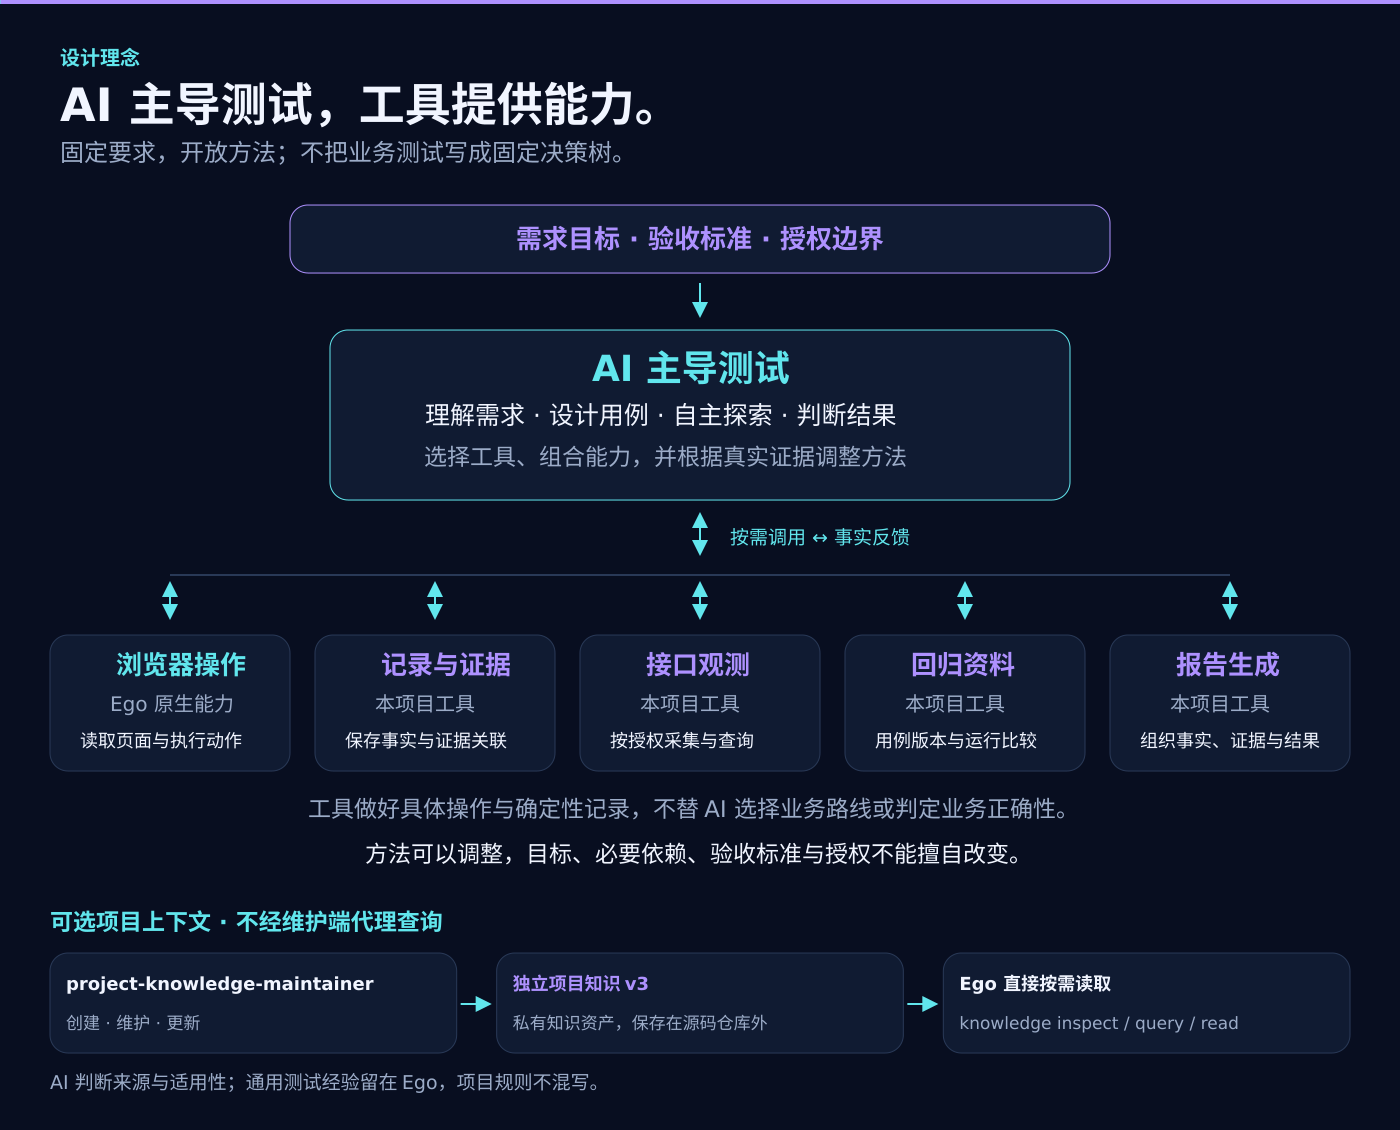
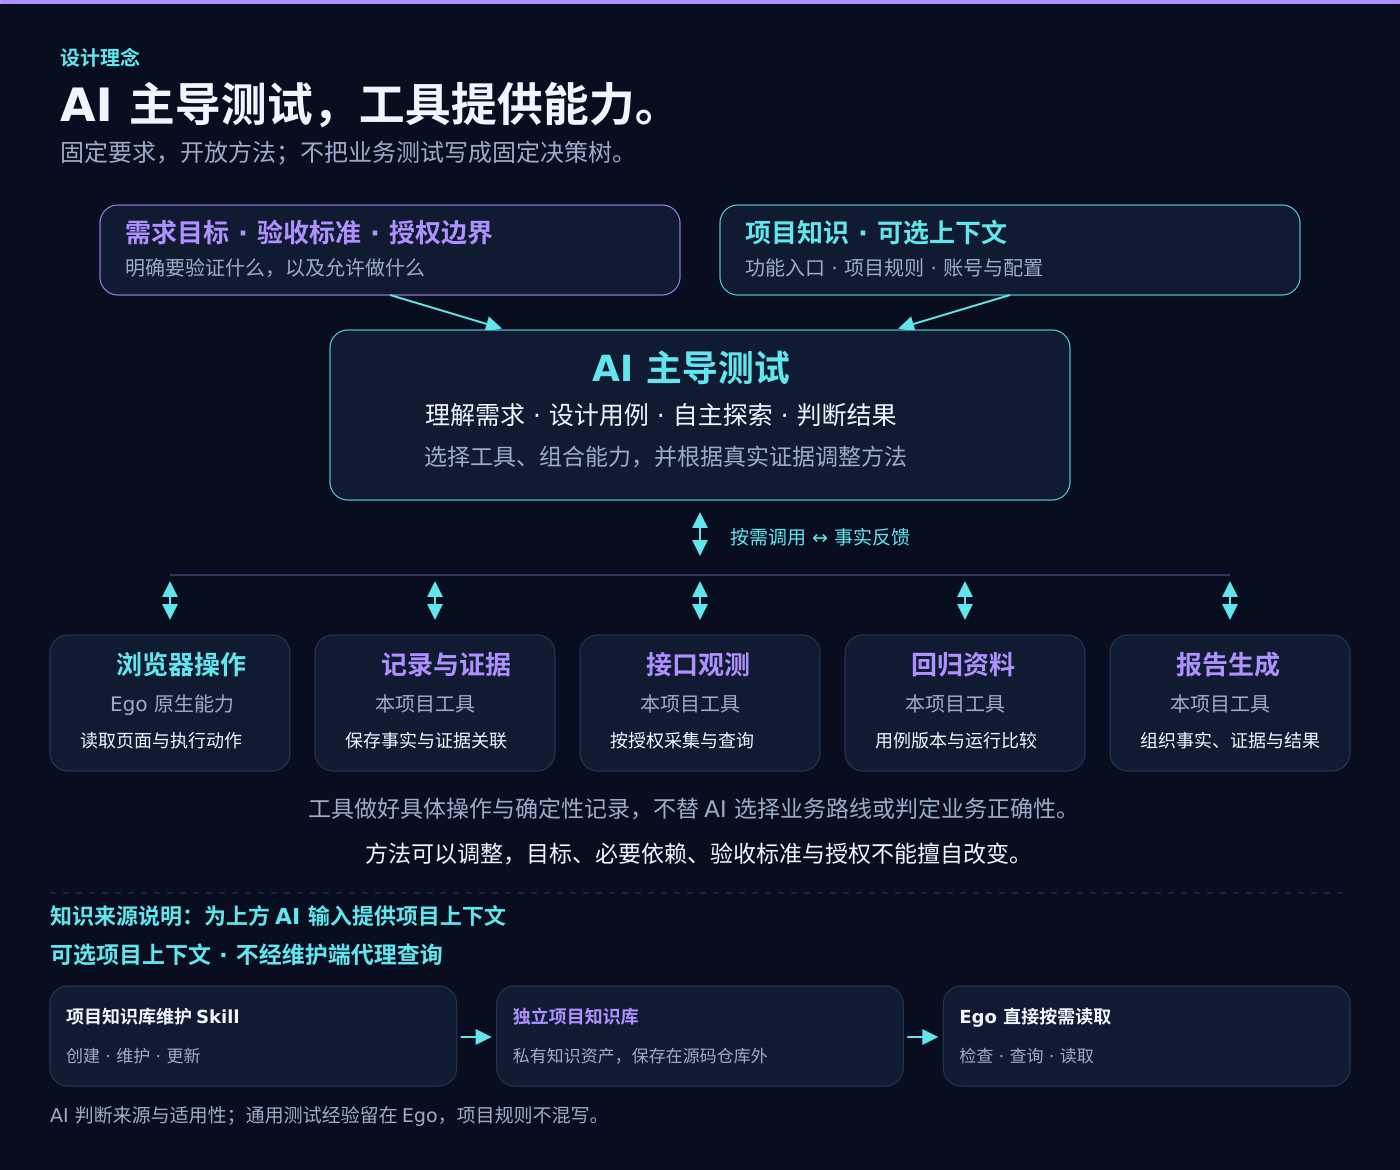
docs: refine knowledge context diagrams after review

diff --git a/README.en.md b/README.en.md
@@ -6,6 +6,14 @@
 
 **An AI-led Web testing Skill built on Ego Lite.** For first launches, new features and regression, using existing cases or cases generated from requirements.
 
+## Companion tool: project knowledge maintenance
+
+[project-knowledge-maintainer](https://github.com/99Like-wjj/project-knowledge-maintainer) creates and updates project knowledge. Ego reads, queries and uses that independent asset during testing through shared **knowledge format v3**; the maintenance Skill is not a runtime query proxy. The maintenance repository is currently private and requires existing access. An inaccessible link does not disable other Ego testing capabilities.
+
+First, use the maintenance Skill with authorized materials and keep its output in a private directory outside source repositories. Then give Ego that directory and an independently confirmed project identity, using `knowledge inspect/query/read` on demand. Read again after updates; frozen cases and historical results are not rewritten. Maintenance is not required on every test run, and tasks can continue from existing sources without a knowledge base.
+
+Generic testing experience stays in Ego’s separate design/execution guides. Project maps, common rules and user-declared configuration/account notes stay in the knowledge base. Configuration uses lightweight records, not a mandatory permission matrix; feature-specific details remain in source requirements. Real knowledge, business materials and credentials are never shipped with either Skill. See the [knowledge usage guide (Chinese)](skills/ai-autonomous-testing-ego-lite/references/project-knowledge.md).
+
 ## Design philosophy: AI leads, tools provide capabilities
 
 AI leads the testing: understanding requirements, designing cases, exploring pages, choosing actions and verification methods, and judging results from actual evidence. We provide composable capabilities, testing guidance and experience references to support this work, rather than a fixed process that decides every step for the AI.
@@ -16,15 +24,7 @@ AI leads the testing: understanding requirements, designing cases, exploring pag
 
 As models improve, we aim to let AI use these capabilities more effectively. Actual testing quality must still be verified; a model upgrade does not guarantee improvement.
 
-![AI at the center selects parallel capabilities and adapts to factual feedback, not a fixed execution sequence.](docs/images/design-philosophy.png)
-
-## Companion tool: project knowledge maintenance
-
-[project-knowledge-maintainer](https://github.com/99Like-wjj/project-knowledge-maintainer) creates and updates project knowledge. Ego reads, queries and uses that independent asset during testing through shared **knowledge format v3**; the maintenance Skill is not a runtime query proxy. The maintenance repository is currently private and requires existing access. An inaccessible link does not disable other Ego testing capabilities.
-
-First, use the maintenance Skill with authorized materials and keep its output in a private directory outside source repositories. Then give Ego that directory and an independently confirmed project identity, using `knowledge inspect/query/read` on demand. Read again after updates; frozen cases and historical results are not rewritten. Maintenance is not required on every test run, and tasks can continue from existing sources without a knowledge base.
-
-Generic testing experience stays in Ego’s separate design/execution guides. Project maps, common rules and user-declared configuration/account notes stay in the knowledge base. Configuration uses lightweight records, not a mandatory permission matrix; feature-specific details remain in source requirements. Real knowledge, business materials and credentials are never shipped with either Skill. See the [knowledge usage guide (Chinese)](skills/ai-autonomous-testing-ego-lite/references/project-knowledge.md).
+![Goals and optional project knowledge provide AI context; AI selects capabilities and adapts to factual feedback.](docs/images/design-philosophy.png)
 
 ## Current version
 

diff --git a/README.md b/README.md
@@ -6,6 +6,14 @@
 
 **基于 Ego Lite 的 AI 自主 Web 测试 Skill。** 面向新项目首次上线、新功能交付和已有功能回归，支持接收现成用例或根据需求生成用例。
 
+## 配套工具：项目知识库维护 Skill
+
+[project-knowledge-maintainer](https://github.com/99Like-wjj/project-knowledge-maintainer) 负责创建、维护和更新项目知识库。本仓库负责在测试时按需读取、查询和使用知识，二者通过独立的**项目知识格式 v3**协作，而不是相互代理调用。维护仓库目前为私有，需要已有访问权限；链接不可访问不影响 Ego 的其他测试能力。
+
+使用顺序：先在授权范围内由维护 Skill 整理项目资料，保存到源码仓库外的私有知识目录；再向 Ego 提供该目录及独立确认的项目身份，按需调用 `knowledge inspect/query/read`。更新知识后重新读取，不自动改写已冻结用例或历史结果。无需在每次测试中调用维护 Skill；没有知识库时继续已有资料支持的工作。
+
+通用测试经验留在 Ego 的设计/执行指南中，项目特有地图、公共规则和用户声明的配置/账号说明留在知识库中。配置是轻量记录，不强制建立权限矩阵；功能细则仍按任务读取原始需求。真实知识、原始业务资料和凭据不随任何 Skill 发布。详见[知识使用指南](skills/ai-autonomous-testing-ego-lite/references/project-knowledge.md)。
+
 ## 设计理念：AI 主导，工具提供能力
 
 本项目由 AI 主导自动化测试。AI 负责理解需求、设计用例、自主探索页面、选择操作与验证方法，并依据实际证据判断结果。我们提供可按需组合的具体能力工具，以及测试规范和经验参考，帮助 AI 完成工作，而不是用固定流程替它决定每一步。
@@ -16,15 +24,7 @@
 
 我们希望随着模型能力提升，让 AI 更好地运用这些能力完成测试；实际效果仍通过验证来判断，不预设升级就一定更好。
 
-![AI 位于中心，按需调用并列能力并根据事实反馈调整方法；不是固定执行顺序。](docs/images/design-philosophy.zh-CN.png)
-
-## 配套工具：项目知识库维护 Skill
-
-[project-knowledge-maintainer](https://github.com/99Like-wjj/project-knowledge-maintainer) 负责创建、维护和更新项目知识库。本仓库负责在测试时按需读取、查询和使用知识，二者通过独立的**项目知识格式 v3**协作，而不是相互代理调用。维护仓库目前为私有，需要已有访问权限；链接不可访问不影响 Ego 的其他测试能力。
-
-使用顺序：先在授权范围内由维护 Skill 整理项目资料，保存到源码仓库外的私有知识目录；再向 Ego 提供该目录及独立确认的项目身份，按需调用 `knowledge inspect/query/read`。更新知识后重新读取，不自动改写已冻结用例或历史结果。无需在每次测试中调用维护 Skill；没有知识库时继续已有资料支持的工作。
-
-通用测试经验留在 Ego 的设计/执行指南中，项目特有地图、公共规则和用户声明的配置/账号说明留在知识库中。配置是轻量记录，不强制建立权限矩阵；功能细则仍按任务读取原始需求。真实知识、原始业务资料和凭据不随任何 Skill 发布。详见[知识使用指南](skills/ai-autonomous-testing-ego-lite/references/project-knowledge.md)。
+![需求目标与可选项目知识共同提供 AI 上下文；AI 按需调用并列能力，并根据事实反馈调整方法。](docs/images/design-philosophy.zh-CN.png)
 
 ## 当前版本
 

diff --git a/docs/v0.1.9-cloud-documentation-validation.md b/docs/v0.1.9-cloud-documentation-validation.md
@@ -7,7 +7,7 @@
 - 本次仅更新介绍、架构、历史说明、配图与文档回归断言，未更改运行时业务逻辑或版本号。
 - 当前身份仍为 `0.1.9-dev.1 / project-knowledge-3`；主测试契约 v9、知识格式 v3。本记录不表示已经合并或发布。
 
-## 图文修复
+## 首轮图文修复（第二轮调整见下文）
 
 - 中英文 README 在设计理念后说明独立维护 Skill 的职责、私有访问限制和使用顺序。维护端创建/更新知识，Ego 自行按需检查、查询、读取；二者不通过维护端代理查询。
 - 理念、架构、流程图加入“维护 Skill → 独立知识 v3 → Ego 直接读取”，保留 AI 决策、工具记录的职责。知识是可选上下文，不是每次测试的强制前置阶段。
@@ -34,3 +34,14 @@
 ## 限制与待审
 
 公开内容检查是当前文件的启发式扫描，不保证检测所有凭据、业务隐私或 Git 历史内容。配图为能力示意，不是实际业务验收证据。本次未重新执行真实业务测试或完整宿主端验收，也未安装更新用户本地 Skill。文档修订仍需人工审阅，通过后另行执行合并及发版。
+
+
+## 第二轮人工审阅修订（2026-11-04）
+
+- 基线为首轮文档提交 `723ad8e`。中英文 README 的配套工具入口已移动到设计理念之前。
+- 理念图把项目知识作为与需求目标、验收标准、授权边界并列的可选输入，两者均指向 AI 主导测试；下方独立说明知识来源，不再把知识表现为测试后的产物。
+- 流程图将可选项目知识放在用例设计和执行之前，并说明执行中按需补充，不强制全量加载。Ego 直接读取，不经维护端代理查询。
+- 中文图中的维护工具、检查/查询/读取等说明统一为中文；中英文理念、架构、流程、完整版本史和 README 版本图不再展示知识格式 v3 标签。实际契约、技术文档中的知识格式 v3 与产品版本号保持不变。
+- 0.1.9 图中介绍统一为“项目知识库、测试经验与离线审阅导出”。同源更新 10 张 SVG 及对应 PNG，按原始分辨率检查文字、箭头和边界，并修正英文长标题溢出。
+- 本轮重新运行 `npm run typecheck`、`npm test`、`npm run check:public`、`git diff --check`：全部通过；测试为 268 项，267 通过、0 失败、1 个 Windows 专用测试在 Linux 跳过。
+- 本轮只修改展示文件与回归断言，未更改运行时代码、真实报告或版本身份，未执行合并、打标签、生成发布压缩包或 Release。

diff --git a/docs/version-history.en.md b/docs/version-history.en.md
@@ -6,7 +6,7 @@ The AI interprets goals and judges business outcomes, Ego operates the browser, 
 
 ![Newest first: 0.1.9 development, followed by historical 0.1.8 through 0.1.2; capability illustration only.](images/version-history.png)
 
-## v0.1.9 · Project common knowledge (development, not released)
+## v0.1.9 · Project knowledge, testing experience and offline review export (development, not released)
 
 0.1.9-dev.1 adds optional knowledge v3 lookup across structured rules/maps and lightweight project/account records and task-scoped use; main contracts stay v9. See [development validation](v0.1.9-development-validation.md). No formal release package, tag or release has been created.
 

diff --git a/docs/version-history.md b/docs/version-history.md
@@ -6,7 +6,7 @@
 
 ![最新在前：0.1.9 开发版，其后为 0.1.8 至 0.1.2 历史版本；仅为能力示意。](images/version-history.zh-CN.png)
 
-## v0.1.9 · 项目通用知识（开发中，未发布）
+## v0.1.9 · 项目知识库、测试经验与离线审阅导出（开发中，未发布）
 
 0.1.9-dev.1 新增独立知识格式v3的四类资料只读检索、可选来源处理与按任务使用，主契约仍为 v9。详见[v0.1.9 开发自测](v0.1.9-development-validation.md)；当前没有正式发布包、Tag 或 Release。
 
